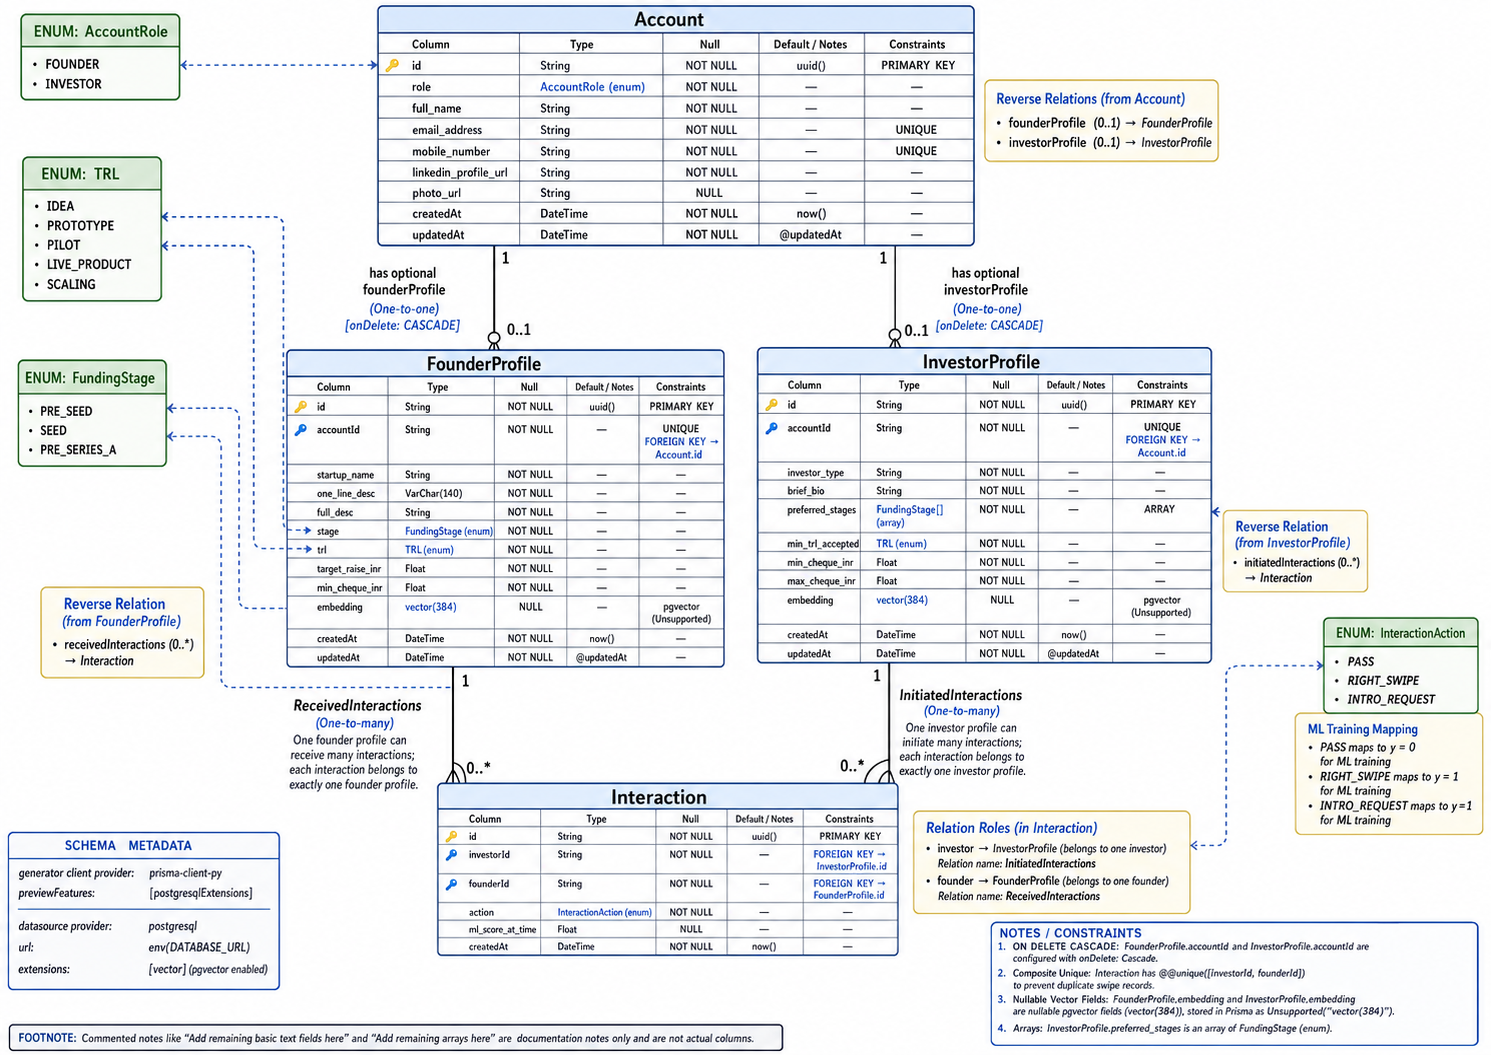
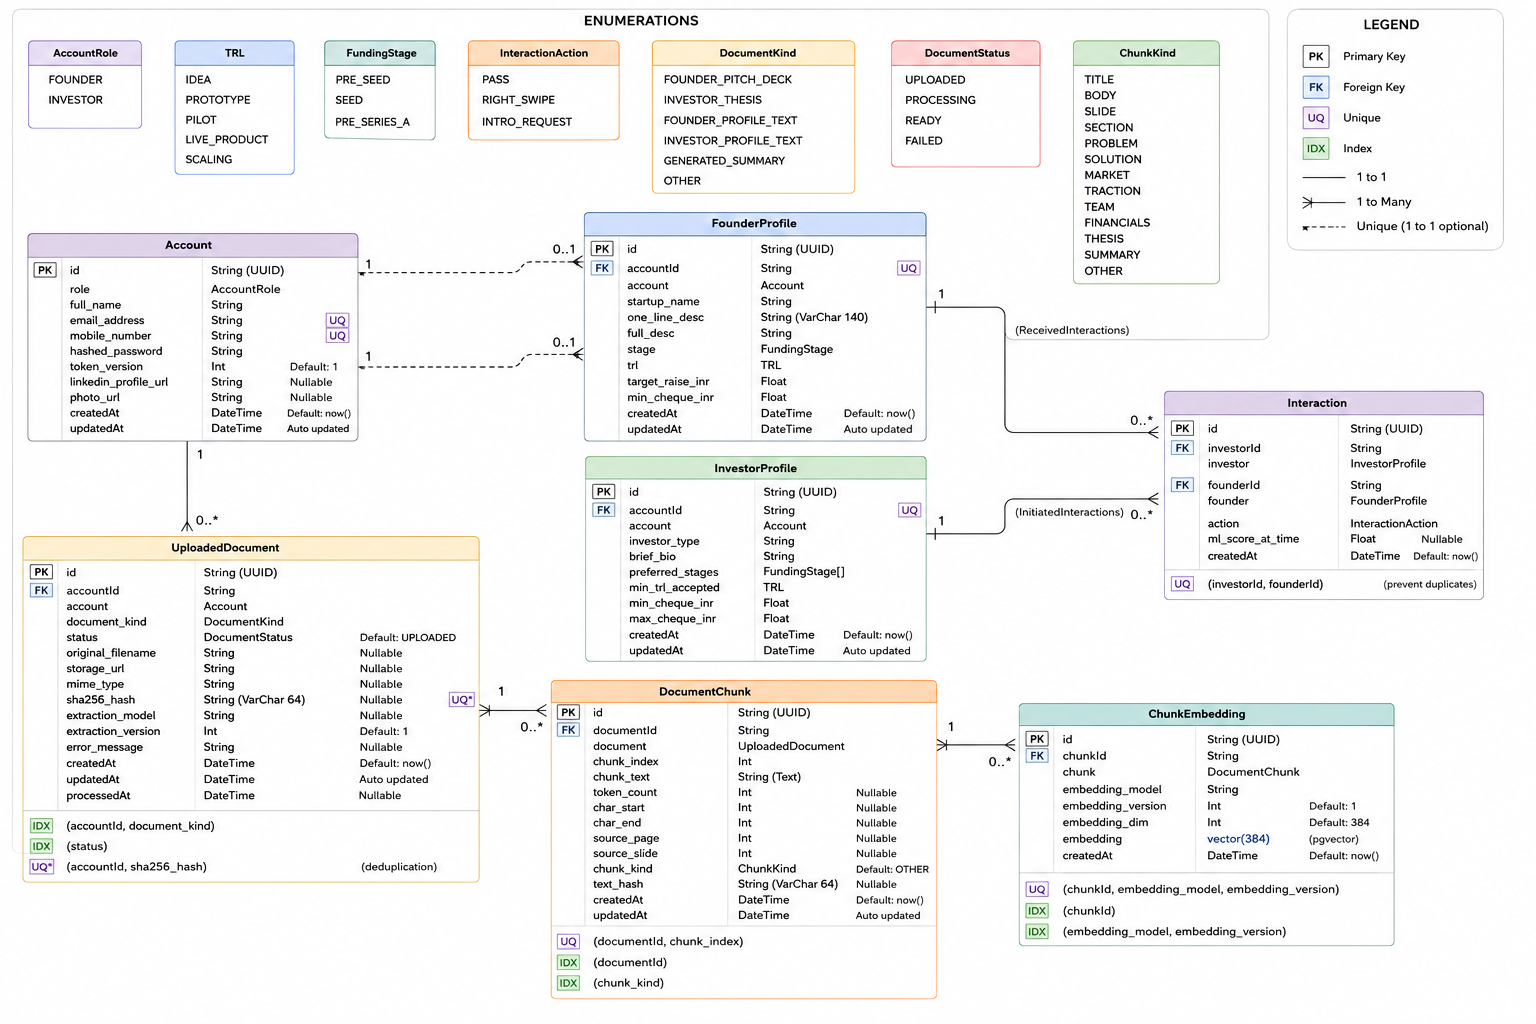
Updated documentation

Changed region(s): [[0.0, 0.0, 1.0, 1.0], [0.8638, 0.1875, 0.9873, 0.25], [0.9873, 0.875, 1.0, 1.0]]

diff --git a/docs/todo.md b/docs/todo.md
@@ -15,3 +15,4 @@ parv:
  - build inference pipeline
  - add all helpers for inference
  - replace math with numpy
+ - upload chunking and validation

diff --git a/docs/v2.md b/docs/v2.md
@@ -2,3 +2,4 @@
 
 1. Fine tuned cross encoder as the third stage of the app. 
 2. Switch BM25 sparse embeddings with a base/fine tuned SPLADE sparse embedding model.
+3. Add support for datatypes other than PDFs and text like images, pptx etc. Add a data preprocessing pipeline using CV